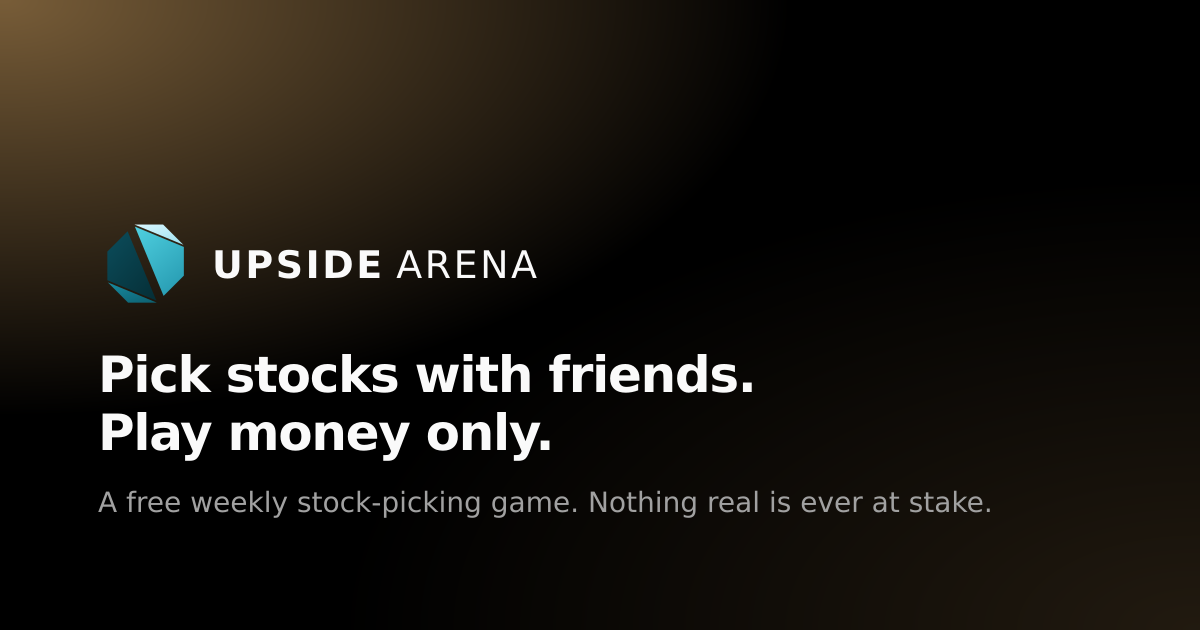
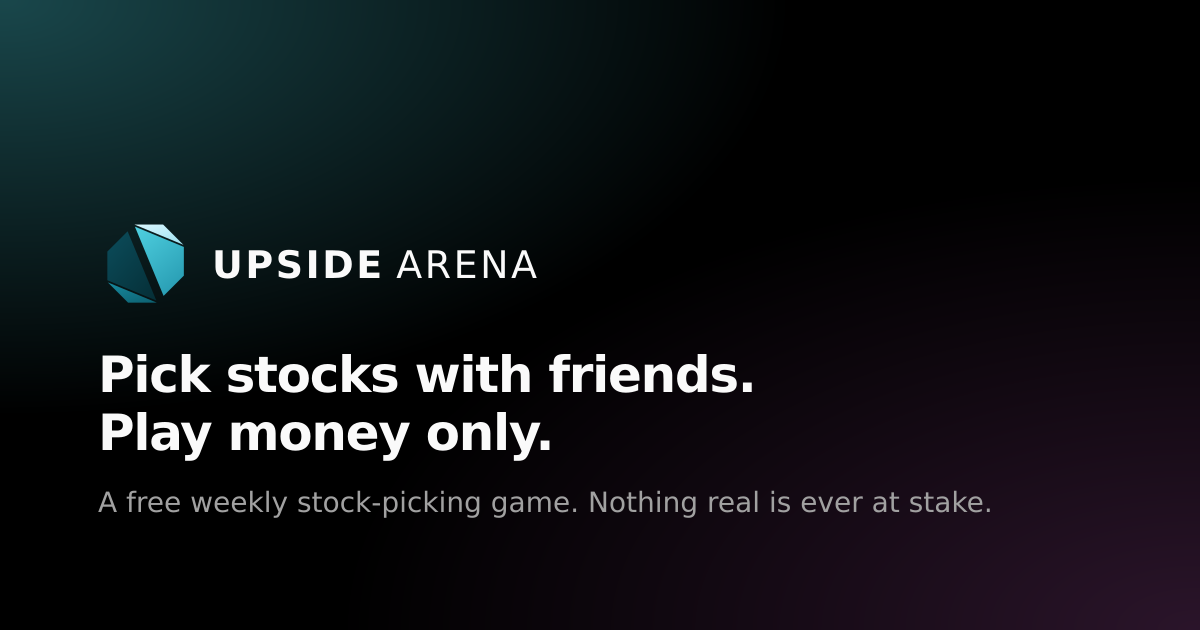
Recolour the site around the mark, and make the glass read as glass
The accent was a warm amber chosen to sit beside the aqua mark. It now IS
the mark: --primary is oklch(0.79 0.113 207), the stone's own lit face
rounded, so the chrome and the logo are the same colour rather than two
colours picked to get along. Black on it clears 10.7:1, so
--primary-foreground is unchanged.

Adds --glow-secondary, a magenta at oklch(0.68 0.16 328), lighting the far
lobe of the ambient field so the page is lit from two directions in two
hues instead of one colour twice. It was derived, not picked. The true
complement of the accent is hue 27, a coral, which would give the most
chromatic contrast and is unusable here: it lands 5 degrees from
--destructive and 11 from --loss, and in a money game an ambient coral wash
reads as a loss before it reads as decoration. Yellow is Lab's. That leaves
the violet to magenta band, where 328 sits 121 degrees off the accent,
still far enough to read as an opposite, while clearing every semantic hue
by at least 44 degrees. Held at 18 percent on desktop and 13 on a phone:
felt rather than noticed.

--cat-1 and --cat-6 move from hue 195 to 182. --chart-1 is --primary, and
at 195 those categories sat 12 degrees off the new accent, close enough
that a chart could have drawn the brand and a category in near enough the
same colour. Every categorical hue now clears every semantic hue by at
least 18 degrees again.

The glass was inherited from an older capture of Lab's system and had
[…]

Changed region(s): [[0.0, 0.0, 0.4933, 0.5127], [0.925, 0.9349, 1.0, 1.0]]

diff --git a/src/app/globals.css b/src/app/globals.css
@@ -25,13 +25,31 @@
   --input: oklch(1 0 0 / 18%);
 
   /*
-    Brand accent, one only. Warm amber, tuned to sit against the aqua mark:
-    pushed off Lab's hue 90 toward 74 so gold and aqua read as a deliberate
-    warm-against-cool pair rather than two accents competing.
+    Brand accent. This is the mark's own lit face, oklch(0.7933 0.1132 206.7)
+    rounded, so the chrome and the logo are literally the same aqua rather
+    than two colours chosen to sit near each other.
+
+    --primary-foreground stays near-black: the accent is light, and black on
+    it clears 10.7:1.
   */
-  --primary: oklch(0.82 0.11 74);
+  --primary: oklch(0.79 0.113 207);
   --primary-foreground: oklch(0.145 0 0);
-  --ring: oklch(0.82 0.11 74);
+  --ring: oklch(0.79 0.113 207);
+
+  /*
+    The counter-accent. Lights the far lobe of the ambient field, so the page
+    is lit from two directions in two hues rather than one colour twice.
+
+    Chosen rather than picked. The true complement of the accent is hue 27,
+    a coral, which would give the most chromatic contrast; it is unusable
+    here because it lands 5 degrees from --destructive and 11 from --loss,
+    and in a money game an ambient coral wash reads as "you are down" before
+    it reads as decoration. Yellow is Lab's, and Arena should not borrow it.
+    That leaves the violet to magenta band, where 328 sits 121 degrees from
+    the accent, so it still reads as an opposite, while clearing every
+    semantic hue by at least 44 degrees.
+  */
+  --glow-secondary: oklch(0.68 0.16 328);
 
   /* Semantic, never decorative */
   --gain: oklch(0.696 0.17 162.48);
@@ -40,13 +58,21 @@
   --destructive: oklch(0.704 0.191 22.216);
   --destructive-foreground: oklch(0.985 0 0);
 
-  /* Categorical, charts only. Never chrome, never good/bad. */
-  --cat-1: oklch(0.78 0.1 195);
+  /*
+    Categorical, charts only. Never chrome, never good/bad.
+
+    Every hue clears each semantic hue by at least 18 degrees so a series can
+    never be mistaken for gain, loss, caution or the brand. cat-1 and cat-6
+    moved from 195 to 182 when --primary became aqua at 207: at 195 they sat
+    12 degrees off the accent, and --chart-1 is --primary, so a chart could
+    have drawn the brand and a category in near enough the same colour.
+  */
+  --cat-1: oklch(0.78 0.1 182);
   --cat-2: oklch(0.62 0.11 230);
   --cat-3: oklch(0.78 0.1 125);
   --cat-4: oklch(0.62 0.11 340);
   --cat-5: oklch(0.78 0.09 260);
-  --cat-6: oklch(0.62 0.11 195);
+  --cat-6: oklch(0.62 0.11 182);
   --cat-7: oklch(0.78 0.1 340);
   --cat-8: oklch(0.62 0.1 125);
   --cat-9: oklch(0.78 0.09 230);
@@ -163,7 +189,9 @@
 
 @layer components {
   /*
-    Page field: true black plus two ambient lobes, both in --primary.
+    Page field: true black, lit by two ambient lobes. The near lobe is
+    --primary, the far one --glow-secondary, so the field has a temperature
+    gradient across it rather than one accent repeated at two opacities.
     Never gain-green in ambient chrome.
   */
   .page-frame {
@@ -186,7 +214,7 @@
       ),
       radial-gradient(
         1300px 1000px at 100% 100%,
-        oklch(from var(--primary) l c h / 14%),
+        oklch(from var(--glow-secondary) l c h / 18%),
         transparent 72%
       );
   }
@@ -206,7 +234,7 @@
         ),
         radial-gradient(
           82vw 48vh at 100% 100%,
-          oklch(from var(--primary) l c h / 10%),
+          oklch(from var(--glow-secondary) l c h / 13%),
           transparent 72%
         );
     }
@@ -216,27 +244,57 @@
     Top-level panel treatment. The glow has to read through the pane,
     so never paint an opaque bg-card here.
   */
+  /*
+    Two specular edges, not one: a bright hairline along the top where a pane
+    catches light, and a fainter one along the bottom where light wraps under
+    it. On a near-black field the edge is what sells glass, more than the blur
+    does, so these are brighter than they look like they should be.
+  */
   .card-sheen {
     position: relative;
     box-shadow:
-      inset 0 1px 0 0 oklch(1 0 0 / 24%),
-      inset 0 -1px 0 0 oklch(1 0 0 / 7%),
+      inset 0 1px 0 0 oklch(1 0 0 / 30%),
+      inset 0 -1px 0 0 oklch(1 0 0 / 12%),
       inset 0 0 0 1px var(--border),
-      0 14px 36px -18px oklch(0.05 0 0 / 90%);
+      0 14px 36px -18px oklch(0.05 0 0 / 88%);
   }
 
+  /*
+    Glass surface for every top-level panel.
+
+    Prefixed property FIRST, standard LAST, and never the other way round.
+    Written in the other order the CSS transform can collapse the pair and
+    emit only -webkit-backdrop-filter, which Blink does not honour, so
+    backdrop-filter computes to none and every glass surface silently renders
+    as a flat tint with no blur in Chrome, Edge and Android. Verify against
+    the compiled bundle rather than this file: the bug is invisible in source.
+  */
   .glass {
-    background-color: color-mix(in oklch, var(--card), transparent 38%);
-    -webkit-backdrop-filter: blur(28px) saturate(1.6);
-    backdrop-filter: blur(28px) saturate(1.6);
+    /* 66%, well past Lab's 55%. Arena's field carries two hues, and the
+       panels should let that through rather than sit on top of it. */
+    background-color: color-mix(in oklch, var(--card), transparent 66%);
+    -webkit-backdrop-filter: blur(40px) saturate(1.9);
+    backdrop-filter: blur(40px) saturate(1.9);
   }
 
   /* Nested well. No second card-in-card. */
   .glass-well {
-    background-color: color-mix(in oklch, var(--muted), transparent 50%);
-    -webkit-backdrop-filter: blur(16px);
-    backdrop-filter: blur(16px);
+    background-color: color-mix(in oklch, var(--muted), transparent 62%);
+    -webkit-backdrop-filter: blur(24px) saturate(1.7);
+    backdrop-filter: blur(24px) saturate(1.7);
     box-shadow: inset 0 0 0 1px var(--border);
+  }
+
+  /*
+    Chrome that spans the viewport: the header bar and the dock shell. Same
+    material as .glass but keyed to the field rather than the card, because a
+    bar sits directly on the page rather than on top of a panel, and a
+    card-toned fill reads as a floating slab instead of a pane.
+  */
+  .glass-bar {
+    background-color: color-mix(in oklch, var(--background), transparent 42%);
+    -webkit-backdrop-filter: blur(40px) saturate(1.9);
+    backdrop-filter: blur(40px) saturate(1.9);
   }
 
   /*

diff --git a/src/app/w/[token]/opengraph-image.tsx b/src/app/w/[token]/opengraph-image.tsx
@@ -3,7 +3,7 @@ import { readFile } from "node:fs/promises";
 import path from "node:path";
 import { getSharedCard } from "@/lib/game/share";
 import { headline, ordinal, versusMarketLine, weekLabel } from "@/lib/share/card";
-import { HEX, PRIMARY_RGB, arenaMarkDataUri } from "@/lib/brand/mark";
+import { HEX, PRIMARY_RGB, SECONDARY_RGB, arenaMarkDataUri } from "@/lib/brand/mark";
 import { formatPercent, plural } from "@/lib/format";
 
 /*
@@ -132,13 +132,13 @@ export default async function Image({
     flexDirection: "column",
     backgroundColor: HEX.field,
     /*
-      The ambient glow, both lobes in the accent. Product chrome follows
-      --primary and is amber, while the mark itself stays aqua: the two are a
-      deliberate warm-against-cool pair, not two accents competing.
+      The ambient field. Product chrome follows
+      the app: the near lobe in --primary aqua, matching the mark, and the far
+      one in the magenta counter-accent.
     */
     backgroundImage:
       `radial-gradient(900px 720px at -4% -8%, rgba(${PRIMARY_RGB}, 0.30), transparent 66%),` +
-      `radial-gradient(940px 720px at 100% 100%, rgba(${PRIMARY_RGB}, 0.10), transparent 72%)`,
+      `radial-gradient(940px 720px at 100% 100%, rgba(${SECONDARY_RGB}, 0.16), transparent 72%)`,
     padding: 64,
     fontFamily: "Geist",
   };

diff --git a/src/lib/brand/mark.ts b/src/lib/brand/mark.ts
@@ -118,15 +118,24 @@ export const HEX = {
   foreground: "#fafafa",
   muted: "#a1a1a1",
   /*
-    Warm amber, oklch(0.82 0.11 74). Moved off Lab's hue 90 so the amber
-    chrome and the aqua mark read as a deliberate warm-against-cool pair
-    rather than as two accents competing. See docs/brand/ARENA_MARK.md.
+    The accent, oklch(0.79 0.113 207). This is the mark's own lit face, so
+    the chrome and the logo are the same aqua rather than two colours chosen
+    to sit near each other. See docs/brand/ARENA_MARK.md.
   */
-  primary: "#efb970",
+  primary: "#4ad0dd",
+  /*
+    The counter-accent, oklch(0.68 0.19 328). Lights the far side of the
+    ambient field. 121 degrees off the accent, so it still reads as an
+    opposite, and clear of every semantic hue by at least 44 degrees.
+  */
+  glowSecondary: "#d466d2",
   primaryForeground: "#0a0a0a",
   gain: "#00bc7d",
   loss: "#f2435f",
 } as const;
 
-/** The accent as rgb components, for the ambient glow's gradient stops. */
-export const PRIMARY_RGB = "239, 185, 112";
+/** The accent as rgb components, for the ambient field's near lobe. */
+export const PRIMARY_RGB = "74, 208, 221";
+
+/** The counter-accent, for the ambient field's far lobe. */
+export const SECONDARY_RGB = "212, 102, 210";

diff --git a/src/app/page.tsx b/src/app/page.tsx
@@ -127,7 +127,7 @@ export default async function LandingPage({
 function SampleLeague() {
   return (
     <div className="relative mx-auto w-full max-w-sm md:-rotate-1 md:transition-transform md:duration-700 md:hover:rotate-0">
-      {/* One quiet warm lift behind the card, not a halo. */}
+      {/* One quiet lift behind the card, not a halo. */}
       <div
         className="pointer-events-none absolute -inset-2 -z-10 rounded-[2.5rem] bg-gradient-to-br from-primary/12 to-transparent opacity-70 blur-2xl"
         aria-hidden="true"

diff --git a/src/components/AppHeader.tsx b/src/components/AppHeader.tsx
@@ -29,7 +29,7 @@ export function AppHeader({ profile }: { profile: Profile | null }) {
   const name = profile?.display_name ?? "Player";
 
   return (
-    <header className="sticky top-0 z-40 h-14 border-b border-border bg-background/75 backdrop-blur-xl">
+    <header className="glass-bar sticky top-0 z-40 h-14 border-b border-border">
       <div className={`${PAGE} flex h-14 items-center gap-3`}>
         <Link href="/home" className="rounded-md focus-visible:outline-none">
           <ArenaWordmark />

diff --git a/src/components/BottomDock.tsx b/src/components/BottomDock.tsx
@@ -6,7 +6,7 @@ import { ArrowLeftRight, Home, Trophy, User } from "lucide-react";
 import { cn } from "@/lib/utils";
 
 /*
-  Bottom dock, on desktop and phone alike. Active tab is the warm-yellow pill
+  Bottom dock, on desktop and phone alike. Active tab is the aqua pill
   with black type. Rooms are added here as later phases land, never before the
   room exists: a dead tab is worse than a short dock.
 */

diff --git a/src/components/ui/button.tsx b/src/components/ui/button.tsx
@@ -4,7 +4,7 @@ import { cva, type VariantProps } from "class-variance-authority";
 import { cn } from "@/lib/utils";
 
 /*
-  Lab's shipped button: h-8, rounded-lg, gold fill with near-black type,
+  Lab's shipped button: h-8, rounded-lg, aqua fill with near-black type,
   hover mixes 10% white into the accent plus a small scale lift.
   Coarse pointers get a 2.75rem target, desktop stays dense.
 */

diff --git a/src/components/Segmented.tsx b/src/components/Segmented.tsx
@@ -5,7 +5,7 @@ import { cn } from "@/lib/utils";
 
 type SegmentedOption<T extends string> = { value: T; label: string };
 
-/** Filled toggle row. Active segment is the warm-yellow pill with black type. */
+/** Filled toggle row. Active segment is the aqua pill with black type. */
 export function Segmented<T extends string>({
   options,
   value,

diff --git a/docs/brand/ARENA_MARK.md b/docs/brand/ARENA_MARK.md
@@ -58,23 +58,38 @@ The shadow step is close to the true-black field on purpose. It was checked at
 16px magnified: the silhouette still holds, so it was left dark rather than
 lifted.
 
-### The product accent: warm amber
+### The product accent: the mark's own aqua
 
-`--primary` moved from Lab's `oklch(0.8 0.09 90)` to **`oklch(0.82 0.11 74)`**
-(`#efb970`).
-
-Arena keeps a warm accent for buttons, the active nav pill, focus rings and the
-ambient glow, so the mark and the chrome form a deliberate warm-against-cool
-pair. The hue moved off Lab's 90 toward 74 because at hue 90 the gold reads
-muddy and slightly green next to aqua; at 74 the two read as opposites on
-purpose. Lightness and chroma came up a little so the accent holds its own
-against a vivid mark.
+`--primary` is **`oklch(0.79 0.113 207)`** (`#4ad0dd`), which is the mark's lit
+face rounded. The chrome and the logo are literally the same colour rather than
+two colours chosen to sit near each other. Black on it clears 10.7:1, so
+`--primary-foreground` stays near-black.
 
 Everything derives from this one token via `oklch(from var(--primary) ...)`, so
 there is exactly one value to change in `src/app/globals.css`.
 
-This value is not Lab's banned Gold Delta (`oklch(0.762 0.102 80)`). It is
-lighter, warmer and more chromatic than that.
+`--cat-1` and `--cat-6` moved from hue 195 to 182 when this landed. `--chart-1`
+is `--primary`, and at 195 those two categories sat 12 degrees off the accent,
+close enough that a chart could have drawn the brand and a category in near
+enough the same colour. Every categorical hue now clears every semantic hue by
+at least 18 degrees.
+
+### The counter-accent
+
+`--glow-secondary` is **`oklch(0.68 0.16 328)`** (`#d466d2`), a magenta. It
+lights the far lobe of the ambient field so the page is lit from two directions
+in two hues rather than one colour twice.
+
+It was chosen rather than picked. The true complement of the accent is hue 27,
+a coral, which would give the most chromatic contrast and is unusable here: it
+lands 5 degrees from `--destructive` and 11 from `--loss`, and in a money game
+an ambient coral wash reads as "you are down" before it reads as decoration.
+Yellow is Lab's and Arena should not borrow it. That leaves the violet to
+magenta band, where 328 sits 121 degrees off the accent, still far enough to
+read as an opposite, while clearing every semantic hue by at least 44 degrees.
+
+It is deliberately quiet: 18 percent on desktop, 13 percent on a phone. It
+should be felt rather than noticed.
 
 ### What did not change
 

diff --git a/docs/brand/UPSIDE_LAB_BRAND_FOR_ARENA.md b/docs/brand/UPSIDE_LAB_BRAND_FOR_ARENA.md
@@ -1,10 +1,24 @@
 # Upside Lab visual system (for Upside Arena)
 
 > **Superseded in part.** This records Lab's system as of the capture date and
-> the constraint Arena started from. Arena has since diverged on the mark and
-> the accent by explicit decision: the mark is a parted aqua stone, and
-> `--primary` is a warmer amber. See `docs/brand/ARENA_MARK.md`, which wins
-> where the two disagree. Everything else here still holds.
+> the constraint Arena started from. Arena has since diverged by explicit
+> decision, and `docs/brand/ARENA_MARK.md` wins wherever the two disagree:
+>
+> - The mark is a parted aqua stone, not a gold "A".
+> - `--primary` is that same aqua, `oklch(0.79 0.113 207)`. Arena's accent is
+>   not a warm yellow, and the "do not guess" note below applies to Lab only.
+> - A second brand colour exists: `--glow-secondary`, a magenta, lighting the
+>   far lobe of the ambient field. The "one accent only" rule below is Lab's.
+> - The magenta ban in section 3 is Lab's and does not bind Arena. It still
+>   holds for anything semantic: hues near `--loss`, `--destructive`,
+>   `--warning` and `--gain` stay reserved, which is why the counter-accent is
+>   not the coral that colour theory would otherwise point at.
+> - The glass is heavier than section 6 describes. Arena now runs
+>   `blur(40px) saturate(1.9)` with a 66 percent transparent fill, matching
+>   Lab's current source rather than the values captured here, and the header
+>   is a glass bar rather than an opaque one.
+>
+> Everything else here still holds.
 
 Live product: https://upsidelab.app
 Captured: 2026-08-20 audit screenshots under `audit-final/`. Tokens below are from live source (`src/app/globals.css`, `DESIGN_TOKENS.md`) as of 2026-08-21. The system is shipped, measured, and settled. Arena should share this brand shell and diverge only in execution (rooms, interaction, game-like surfaces), not in palette, type, or chrome.
